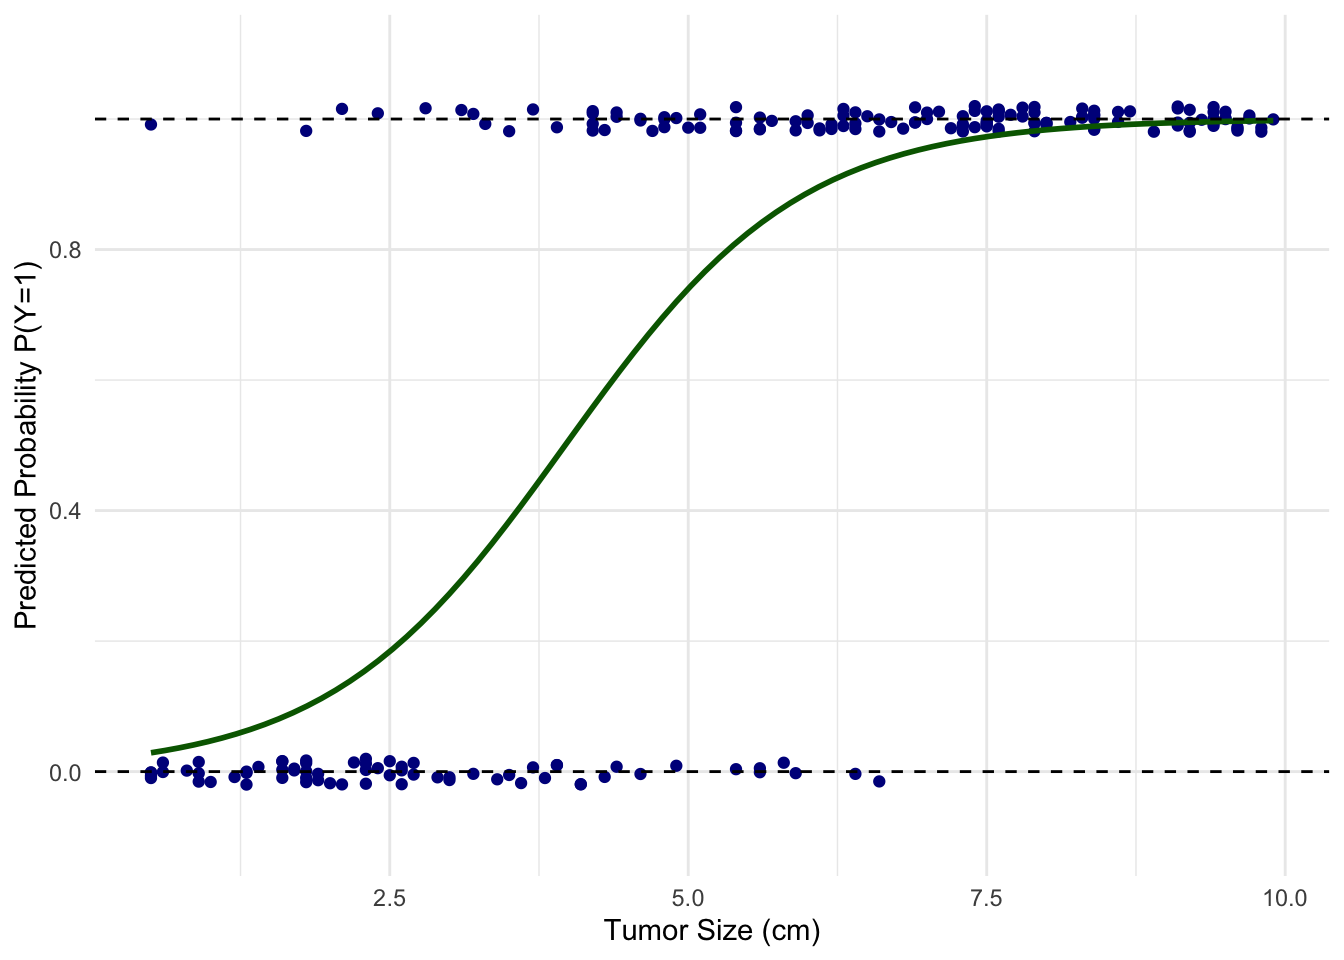
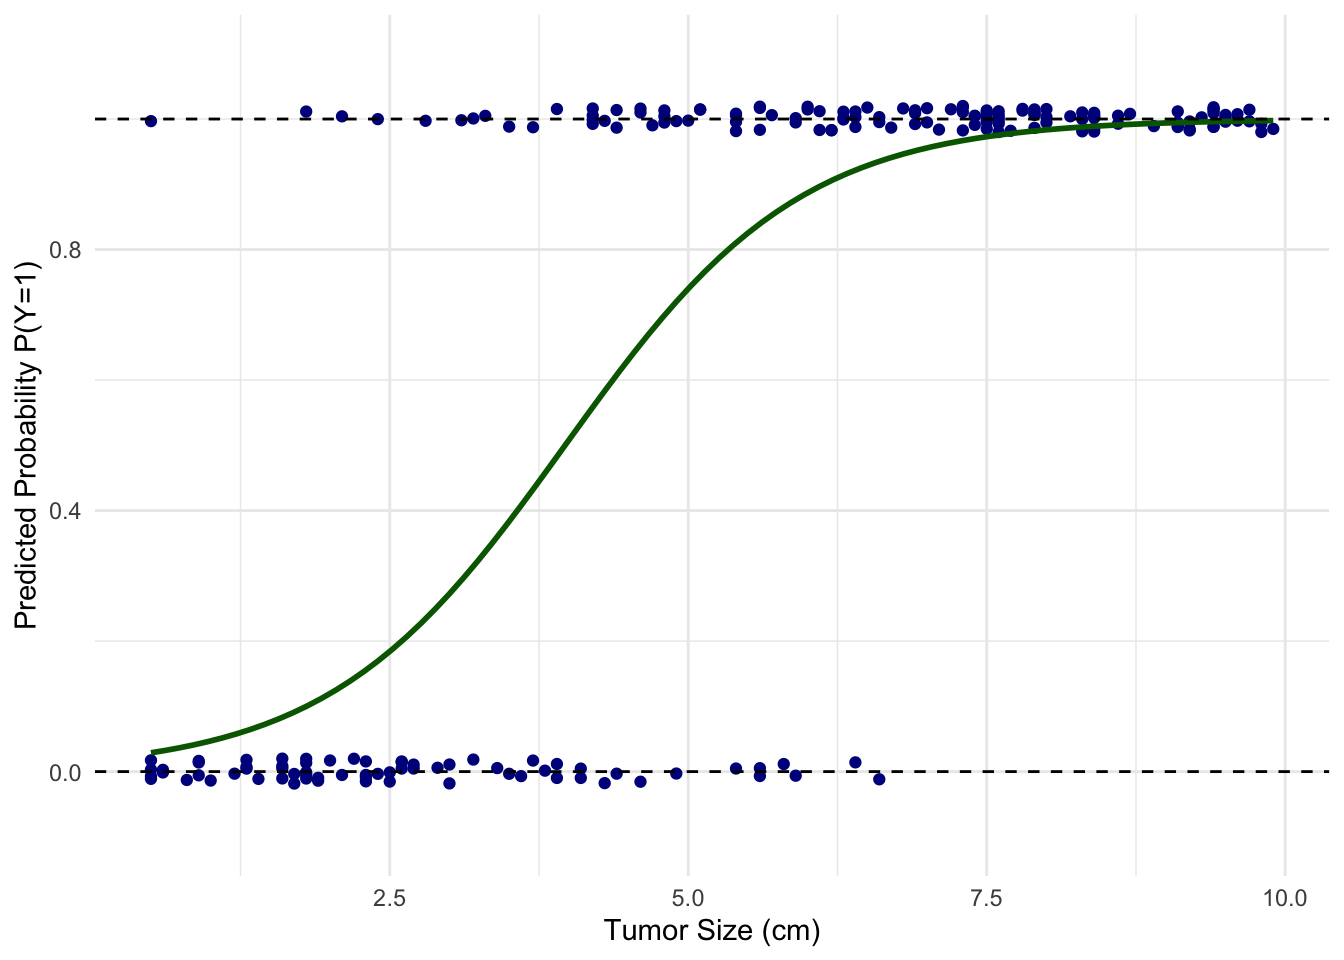
Built site for gh-pages

diff --git a/resources.html b/resources.html
@@ -213,7 +213,7 @@ ul.task-list li input[type="checkbox"] {
 <li><a href="resources/analysis_plan_template.docx">Analysis Plan Template</a></li>
 <li><a href="resources/guide_legacy_wb.pdf">Researcher’s Guide to Using the Workbench</a>
 <ul>
-<li>This guide is created by RTI International who partners with the <em>All of Us</em> Research Program in training researchers. Refer to Chapter 2 to find out about courses they offer and their “Amaze” platform for learning. But this is not required or expected for our workshop.</li>
+<li>This guide is created by RTI International who partners with the <em>All of Us</em> Research Program in training researchers. Chapter 2 contains information about courses they offer and their “Amaze” platform for learning. But this is not required or expected for our workshop.</li>
 <li>The information about workbench navigation and tools (Chapters 6-9) are outdated due to the recent roll-out of Workbench 2.0. However, the rest of the guide is still very helpful.</li>
 </ul></li>
 </ul>
